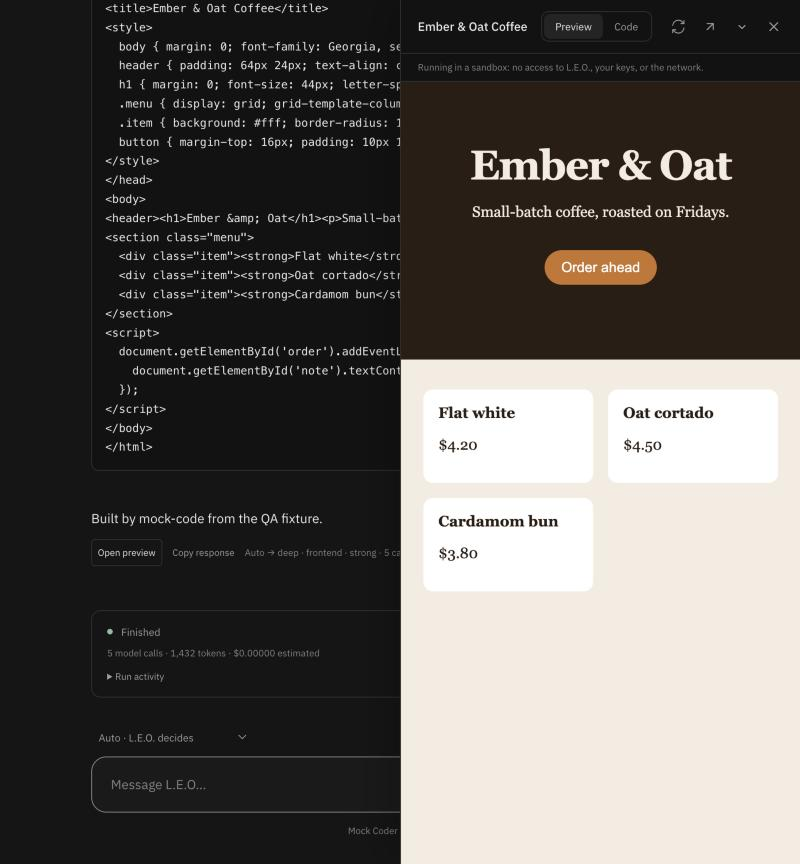
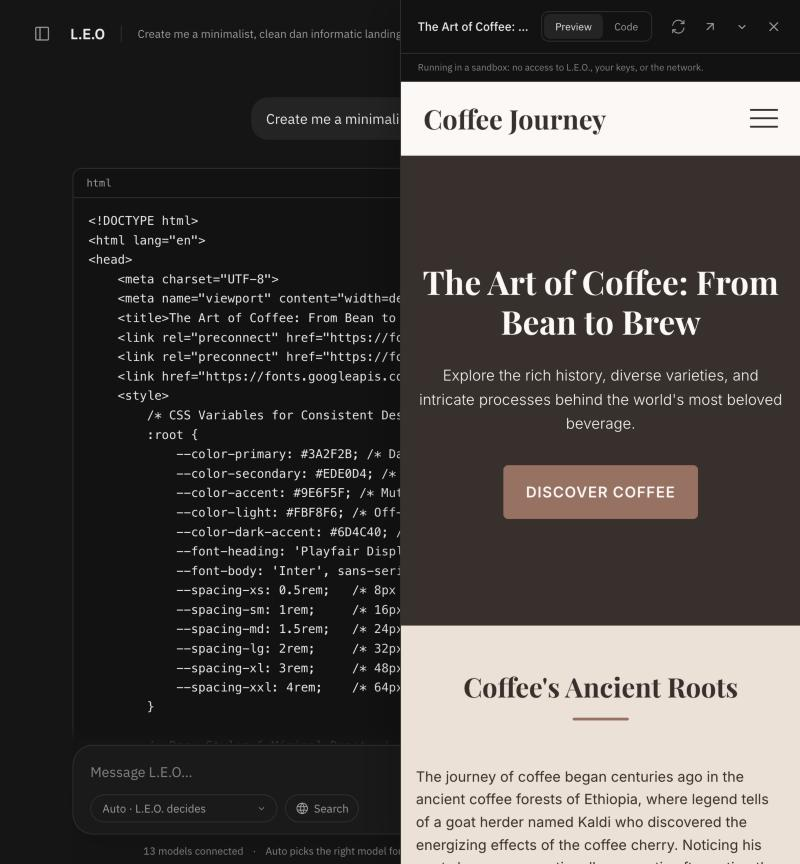
README: real screenshots, QA page comparison; continue cut-off answers; composer row fits narrow windows

diff --git a/frontend/src/styles/global.css b/frontend/src/styles/global.css
@@ -640,3 +640,13 @@ h1 { font-size: clamp(26px, 2.5vw, 32px); font-weight: 400; letter-spacing: -.65
 @media (max-width: 640px) {
   .row-meta { display: none; }
 }
+
+/* The composer's tool row shrinks with the composer (sidebar open on a narrow window) instead of pushing Send out. */
+.composer { container-type: inline-size; }
+.composer-row > * { min-width: 0; }
+.composer-row select { flex: 0 1 auto; text-overflow: ellipsis; }
+.composer-row .context-meter { flex: 0 1 auto; overflow: hidden; }
+.context-meter #context-text { overflow: hidden; text-overflow: ellipsis; }
+@container (max-width: 600px) {
+  .context-meter .meter { display: none; }
+}

diff --git a/backend/orchestrator.py b/backend/orchestrator.py
@@ -218,6 +218,7 @@ class Orchestrator:
                 self.store.update_call(call_id, status="completed", input_tokens=input_tokens, output_tokens=output_tokens,
                                        estimated=estimated, cost=cost, elapsed_ms=int((time.monotonic() - started) * 1000))
                 if finish in {"length", "max_tokens"}:
+                    self.state.setdefault("truncated", []).append(stage)
                     self.store.event(self.id, "warning", {"message": "Output limit reached; response may be incomplete."})
                 _strikes.pop(provider["id"], None)
                 if role == "generator":
@@ -244,6 +245,21 @@ class Orchestrator:
                 self.store.event(self.id, "warning", {"message": f"{provider['name']}: {error.rstrip('.')}." + (" Trying the next eligible connection." if more else "")})
                 # Retain full reservations for failed/ambiguous requests: they may have been billed.
         raise ValueError("; ".join(dict.fromkeys(errors)) or "No eligible connection is available. Check enabled providers, paid usage, and rate-limit cooldowns.")
+
+    async def continue_cut_off(self, stage, answer, route, difficulty, rounds=2):
+        """An answer cut off by the output limit inside a code block (a page, a long file) is continued, not rerun."""
+        for n in range(rounds):
+            if stage not in self.state.get("truncated", []) or answer.count("```") % 2 == 0:
+                break
+            stage = f"continuing_{n}"
+            more = await self.call(stage, "generator",
+                self.run["prompt"] + "\n\nYOUR ANSWER SO FAR ENDS WITH THIS (it was cut off by the length limit):\n" + answer[-4000:] +
+                "\n\nContinue exactly where it stops. Output only the missing remainder, starting with the next character. "
+                "Do not repeat anything, do not restart the file, and close any open code block.",
+                skill=route["skill"], difficulty=difficulty)
+            answer += more
+            self.save(output=answer)
+        return answer
 
     async def execute(self):
         answer = ""
@@ -337,6 +353,7 @@ class Orchestrator:
                 final_stage = "generating"
                 answer = await self.call("generating", "generator", prompt, history=self.state["history"], visible=True,
                                          skill=route["skill"], difficulty=difficulty)
+            answer = await self.continue_cut_off(final_stage, answer, route, difficulty)
             checks = static_review(answer)
             self.state["checks"] = checks
             if final_stage not in replayed:

diff --git a/tests/test_orchestrator.py b/tests/test_orchestrator.py
@@ -520,3 +520,11 @@ async def test_hidden_thinking_marks_the_model_as_reasoning(store):
         return sse_response('answer')
     run = await execute(store, make_run(store), handler)
     assert run['output'] == 'answer' and store.get_connection(thinker['id'])['reasoning'] is True
+
+
+async def test_answer_cut_off_inside_a_code_block_is_continued(store):
+    add_provider(store)
+    first = 'data: ' + json.dumps({'choices': [{'delta': {'content': '```html\n<main>half'}, 'finish_reason': 'length'}]}) + '\n\ndata: [DONE]\n\n'
+    replies = iter([httpx.Response(200, text=first, headers={'content-type': 'text/event-stream'}), sse_response(' page</main>\n```')])
+    run = await execute(store, make_run(store, mode='quick', prompt='Make a page'), lambda r: next(replies))
+    assert run['output'] == '```html\n<main>half page</main>\n```' and run['usage']['calls'] == 2

diff --git a/README.md b/README.md
@@ -1,12 +1,12 @@
 # L.E.O. — Language Model Efficiency Orchestrator
 
-> **🚧 Work in progress (v0.2).** L.E.O. runs end to end and has an automated test suite, but it is still under active development. Routing rules, defaults, and the database schema may change without migrations. Benchmarks so far show token savings and resilience on everyday coding tasks, while multi-step builds still cost more tokens than one strong model (see [Benchmarks](#benchmarks)). Use it with your own models and keys; do not expose it to the internet without the access settings described below.
+> **🚧 Work in progress (v0.2).** L.E.O. runs end to end and has an automated test suite, but it is still under active development. Routing rules, defaults, and the database schema may change without migrations. In the latest QA loop, L.E.O. on free models matched the Gemini and ChatGPT web apps on every coding and reasoning task and scored higher on a landing-page test, but its reviewed coding answers take 1–3 minutes instead of seconds (see [Benchmarks](#benchmarks)). Use it with your own models and keys; do not expose it to the internet without the access settings described below.
 
 **Use your free and local models like a pro subscription.** L.E.O. connects the models you already have (Ollama, LM Studio, vLLM, every free model on OpenRouter, Gemini AI Studio, and paid APIs such as Claude if you choose) and puts a **routing head (HEAD)** in front of them. HEAD reads each task, decides what skill it needs and how hard it is, searches the web when the task needs current information, and sends each step to the cheapest model that can do it well, at a matching thinking effort. A quick question goes to a small model at low effort, code to a coding model, a website's design to your design model, and paid models only step in when free ones cannot.
 
-![A generated coffee shop website running in L.E.O.'s canvas](docs/screenshots/canvas-preview.jpg)
+![A generated coffee landing page running in L.E.O.'s canvas](docs/screenshots/canvas-preview.jpg)
 
-<sub>"Create me a coffee shop website" in Auto mode: the request was split into a design task and a frontend task, each routed to its specialist, and the result runs live in the sandboxed canvas. Captured with the built-in QA fixture (mock models), so the page is fixture output.</sub>
+<sub>"Create me a minimalist, clean dan informatic landing page about coffee" in Auto mode. HEAD saw one self-contained page, so it made a single call to the best free frontend model (Gemini 2.5 Flash, medium thinking effort): 66 seconds, about 15K tokens including thinking, 93% on the page checklist with no broken links or placeholders. The page runs live in the sandboxed canvas. *(Real run)*</sub>
 
 ## Contents
 
@@ -67,10 +67,20 @@ flowchart LR
 
 ## Screenshots
 
+| Chats sidebar and a reviewed coding answer | Settings → Models |
+| --- | --- |
+| ![Sidebar with chats grouped by day, and a reviewed answer](docs/screenshots/sidebar-chat.jpg) | ![Models grouped by provider with switches, prices, and tokens per call](docs/screenshots/settings-models.jpg) |
+| Chats grouped by day with times; delete asks once to confirm. The answer's label shows HEAD's choice: Auto → reviewed, coding, standard, 4 calls (two free models were rate-limited, Nemotron 3 Ultra wrote it, Nemotron Super VL reviewed it). *(Real run)* | One row per provider; each model has an on/off switch, its strength and skills, its price ("Free" here), and its average tokens per call from real use. *(Real data)* |
+
+| Settings → Routing |
+| --- |
+| ![Routing tab with Auto, Free first, Local first, By priority](docs/screenshots/settings-routing.jpg) |
+| **Auto** (recommended) weighs every model you turned on: fit first, then the cost per call, priced from each model's own token use. Settings are split into tabs: Models, Skills, Routing, Web search, Limits, General. |
+
 | Live run with the routing decision | Routing log: each subtask goes to its specialist |
 | --- | --- |
 | ![Live run view with stage track](docs/screenshots/live-run.jpg) | ![Run activity showing per-subtask routing reasons](docs/screenshots/routing-log.jpg) |
-| Auto chose Deep for a frontend build. Stages light up as they run; placeholder lines appear until the first text arrives. *(QA fixture)* | Design task → design model, frontend task → frontend model, each with the reason. *(QA fixture)* |
+| A Deep run: stages light up as they run; placeholder lines appear until the first text arrives. Auto now uses Deep for apps and multi-skill builds; a single page gets one call. *(QA fixture)* | Design task → design model, frontend task → frontend model, each with the reason. *(QA fixture)* |
 
 | Per-chat usage panel | Usage across all chats |
 | --- | --- |
@@ -82,23 +92,20 @@ flowchart LR
 | ![Answer citing three recipe pages](docs/screenshots/research-answer.jpg) | ![Model discovery list](docs/screenshots/discover-models.jpg) |
 | "Find the best egg sandwich recipe and cite your sources": L.E.O. searched SearXNG, read three pages, and one free model (Gemma 4 26B) answered with [n] citations: 1 call, 6,761 tokens. *(Real run)* | OpenRouter: the free chat models your key can use, with suggested strength, thinking, and skills. *(Real data)* |
 
-| Settings: routing profiles and skills |
-| --- |
-| ![Settings with model routing profiles and skills](docs/screenshots/settings-routing.jpg) |
-| Each connection has skills, a strength tier, and a reasoning flag. Each skill lists the models that have it. Keys are never shown. |
 
 ## Status
 
 v0.2 is a working prototype, not a finished product.
 
-**Working and tested** (82 automated tests plus browser checks):
+**Working and tested** (93 automated tests plus browser checks):
 
 - Connections to OpenAI-compatible, OpenAI Responses, and Anthropic Messages endpoints, with streaming and provider-reported usage, including hidden thinking tokens that some providers leave out of their output count. Live-tested with OpenRouter (12 free models) and Gemini AI Studio; a Claude key was connected and its catalog read, but no generation was tested (the account had no credits).
 - HEAD: skills, routing profiles, Auto mode, per-subtask routing in Deep mode, effort by difficulty, model discovery, and fallback between providers (live: rate-limited models handed over to others with no failed runs).
 - Web research through a self-hosted SearXNG, with safe page reading and cited answers (live-tested).
 - Durable runs: background worker, checkpoints, crash recovery, Stop, resumable streams, history.
 - Per-run limits on calls, tokens, time, and estimated cost; paid usage only with explicit opt-in, priced per call from each model's real token use under Auto routing.
-- Chat with rendered Markdown, live run view, sandboxed canvas, per-chat and global usage views.
+- Chat with rendered Markdown, live run view, sandboxed canvas, per-chat and global usage views, a date-grouped chats sidebar, and tabbed Settings.
+- QA loop against the Gemini and ChatGPT web apps: equal on 4 coding/reasoning tasks, higher on a landing page (see [Benchmarks](#benchmarks)).
 - MCP server over stdio (tested as a real subprocess and against live models).
 
 **Not yet proven or not yet built:**
@@ -250,12 +257,17 @@ The same prompts went to **gemini.google.com** (Gemini 3.5 Flash) and **chatgpt.
 | … words / specific facts | 235 / 9 | 314 / 0 | **515–556 / 9–19** | |
 | … defects | 4 empty links, Tailwind from a CDN | 1 empty link, 5 hot-linked photos | **none**, self-contained | |
 
+![The three coffee pages side by side](docs/screenshots/qa-coffee-pages.jpg)
+
+<sub>The same prompt in each app, rendered at desktop width and shown whole. Checklist and content counts from `benchmarks/qa.py` and the browser. ChatGPT's page is the most photographic; L.E.O.'s has the most content and no defects.</sub>
+
 What changed between rounds:
 
 - **Independent review where rules are stated.** In Auto, a coding or backend request with explicit requirements ("only", "exactly", "raise ValueError"…) is reviewed by the strongest available model that did not write the answer. The reviewer lists each requirement, traces the code on the request's own examples, and watches for loose checks such as `isdigit()`.
 - **Static checks that trigger one repair even in Quick mode:** several versions of the same function, in-page links to missing sections, and placeholder text.
 - **Pages with depth:** 5–7 sections and 400+ words of specific content, a link target for every section, and medium thinking effort for single-page builds.
 - **Self-correcting profiles:** a model that spends its whole output limit on hidden thinking is marked as a reasoning model, so later calls cap its effort (Laguna S 2.1 took 249 s and 16K tokens before this).
+- **Cut-off answers are continued, not lost:** if a page or file hits the output limit inside a code block, the same model is asked to continue from where it stopped (up to twice), so the canvas still gets a complete page.
 
 The price is speed and tokens on code: a reviewed answer takes 1–3 minutes and 7–18K free-model tokens, against about 10 seconds in the web apps, whose token use is not shown. Reproduce with `uv run python -m benchmarks.qa .leo-bench/qa/<round> --leo` after saving the web apps' replies as `<round>/<assistant>/<task>.md`.
 
@@ -345,7 +357,7 @@ make check   # backend tests + frontend type check
 make build   # build the frontend served by the API
 ```
 
-The backend suite (92 tests) covers routing classification and ranking, web research and page-reading safety, model discovery, per-subtask routing, Auto mode, skills, the MCP server over stdio, protocol streaming and usage, fallback and cooldown, paid opt-in and limits, key encryption, origin/host/token checks, idempotent submission, cancellation, context trimming, review and repair, task dependencies, checkpoint recovery, and usage reporting. Tests use deterministic HTTP transports and never call real providers.
+The backend suite (93 tests) covers routing classification and ranking, web research and page-reading safety, model discovery, per-subtask routing, Auto mode, skills, the MCP server over stdio, protocol streaming and usage, fallback and cooldown, paid opt-in and limits, key encryption, origin/host/token checks, idempotent submission, cancellation, context trimming, review and repair, task dependencies, checkpoint recovery, and usage reporting. Tests use deterministic HTTP transports and never call real providers.
 
 For manual browser testing without real models, run the QA fixture and connect it with model `leo-test-model` (local, no API charge), using a separate `LEO_DATA_DIR`:
 

diff --git a/spec-driven.md b/spec-driven.md
@@ -47,7 +47,7 @@ The three adapters normalize text streaming and token usage. Unsupported proprie
 
 Skills are owner-editable records (name, description, keywords, prompt instructions, enabled). Six starter skills are seeded once: General, Frontend, Backend, Coding, Design, Reasoning.
 
-Classification is rule-based and costs no tokens: keyword matches choose the skill (a build request's object, such as "website", decides the main deliverable; specific skills win ties over General), and signals (build request, scope words, several skills, several parts, length) set difficulty. A single-page build (page nouns such as "landing page" or "website", no app/API nouns, only frontend/design/general skills, no scope words, one part) is a standard deliverable. Auto mode uses Quick for light/standard work (including single pages), Reviewed for strong single-skill work, and Deep for strong multi-skill work or app builds. A rate-limited first choice whose provider asks for a wait of at most 20 seconds is retried once after that wait before any fallback. Coding and backend requests at standard difficulty that state explicit requirements (two or more requirement words) run as Reviewed in Auto mode; the reviewer is the strongest available model that did not write the answer, unless one is assigned. Static checks (Python/JSON syntax, several versions of the same function, in-page links to missing ids, visible placeholder text) trigger one repair even in Quick mode. A model that ends a call at its output limit with no answer text is marked as a reasoning model.
+Classification is rule-based and costs no tokens: keyword matches choose the skill (a build request's object, such as "website", decides the main deliverable; specific skills win ties over General), and signals (build request, scope words, several skills, several parts, length) set difficulty. A single-page build (page nouns such as "landing page" or "website", no app/API nouns, only frontend/design/general skills, no scope words, one part) is a standard deliverable. Auto mode uses Quick for light/standard work (including single pages), Reviewed for strong single-skill work, and Deep for strong multi-skill work or app builds. A rate-limited first choice whose provider asks for a wait of at most 20 seconds is retried once after that wait before any fallback. Coding and backend requests at standard difficulty that state explicit requirements (two or more requirement words) run as Reviewed in Auto mode; the reviewer is the strongest available model that did not write the answer, unless one is assigned. Static checks (Python/JSON syntax, several versions of the same function, in-page links to missing ids, visible placeholder text) trigger one repair even in Quick mode. A model that ends a call at its output limit with no answer text is marked as a reasoning model. An answer that ends at the output limit inside an open code block is continued by up to two follow-up calls that receive the tail of the answer and return only the remainder.
 
 For each generator call the head ranks eligible connections: strong enough for the difficulty first; then, for light work, non-reasoning models; then models with the skill, then generalists (no skills listed); then the lightest sufficient tier; then the configured fallback order. With `routing: auto` (default), the estimated cost of one call comes right after skill fit: free and local models cost 0, paid models are priced from their input/output prices and their average tokens per completed call (3,000 in / 1,500 out until they have history). Each `model` event carries the skill, difficulty, and the reason for the choice. Planner and reviewer role assignments still apply; with smart routing off, the v0.1 role/fallback behavior is used. The skill's instructions are appended to the generator's system prompt. Reasoning models receive a thinking-effort setting by difficulty (light/standard → low, strong → medium), in each API's own form. The route is persisted with the run so recovery replays the same decisions.
 
